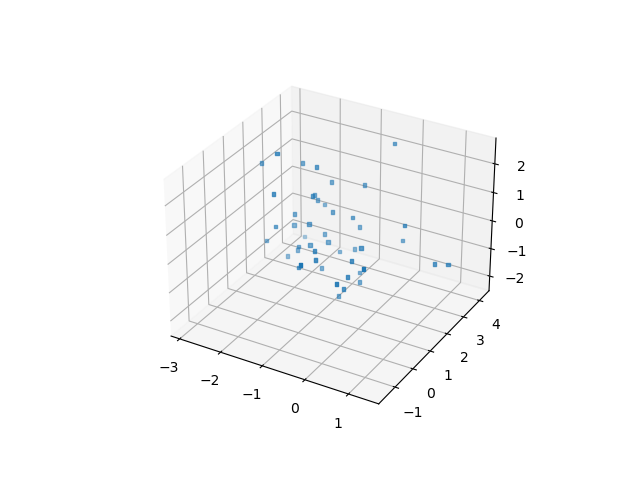
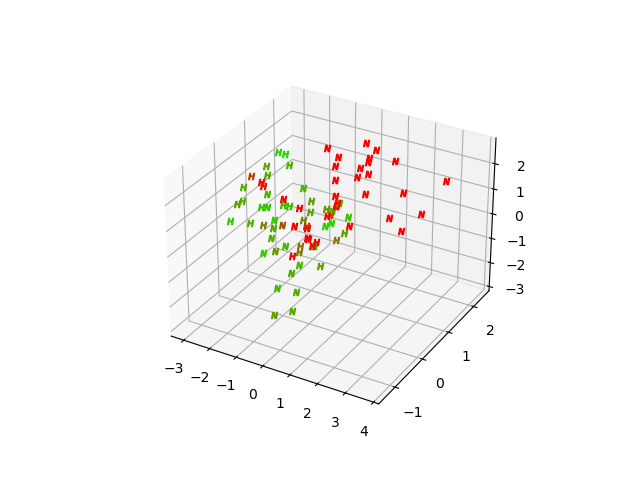
Added energy colours and symbols to energy plot.

diff --git a/Geopt/View/Analysis.py b/Geopt/View/Analysis.py
@@ -25,11 +25,20 @@ def StartAnalysis(elementsList):
     y = firstPlot[:, 2].astype('float64')
     z = firstPlot[:, 3].astype('float64')
     s = firstPlot[:, 4]
+    print('firstPlot:', firstPlot)
 
     testFig = plt.figure()
     ax = testFig.add_subplot(111, projection='3d')
     # Change the markers to be the symbols and colour according to energy.
-    ax.scatter(x, y, z, marker='${}$'.format('.'))
+    for eachPoint in firstPlot:
+        energy = eachPoint[0].astype('float64')
+        print('energy before function:', energy)
+        energy = energy/20
+        if energy > 1:
+            energy = 1
+        print('energy after function:', energy)
+        ax.scatter(eachPoint[1].astype('float64'), eachPoint[2].astype('float64'), eachPoint[3].astype('float64'),
+                   marker='${}$'.format(eachPoint[4]), color=(energy, 1-energy, 0.0))
     # Add all 6 versions to the plot.
     plt.savefig("Images/fig3.png")
 
